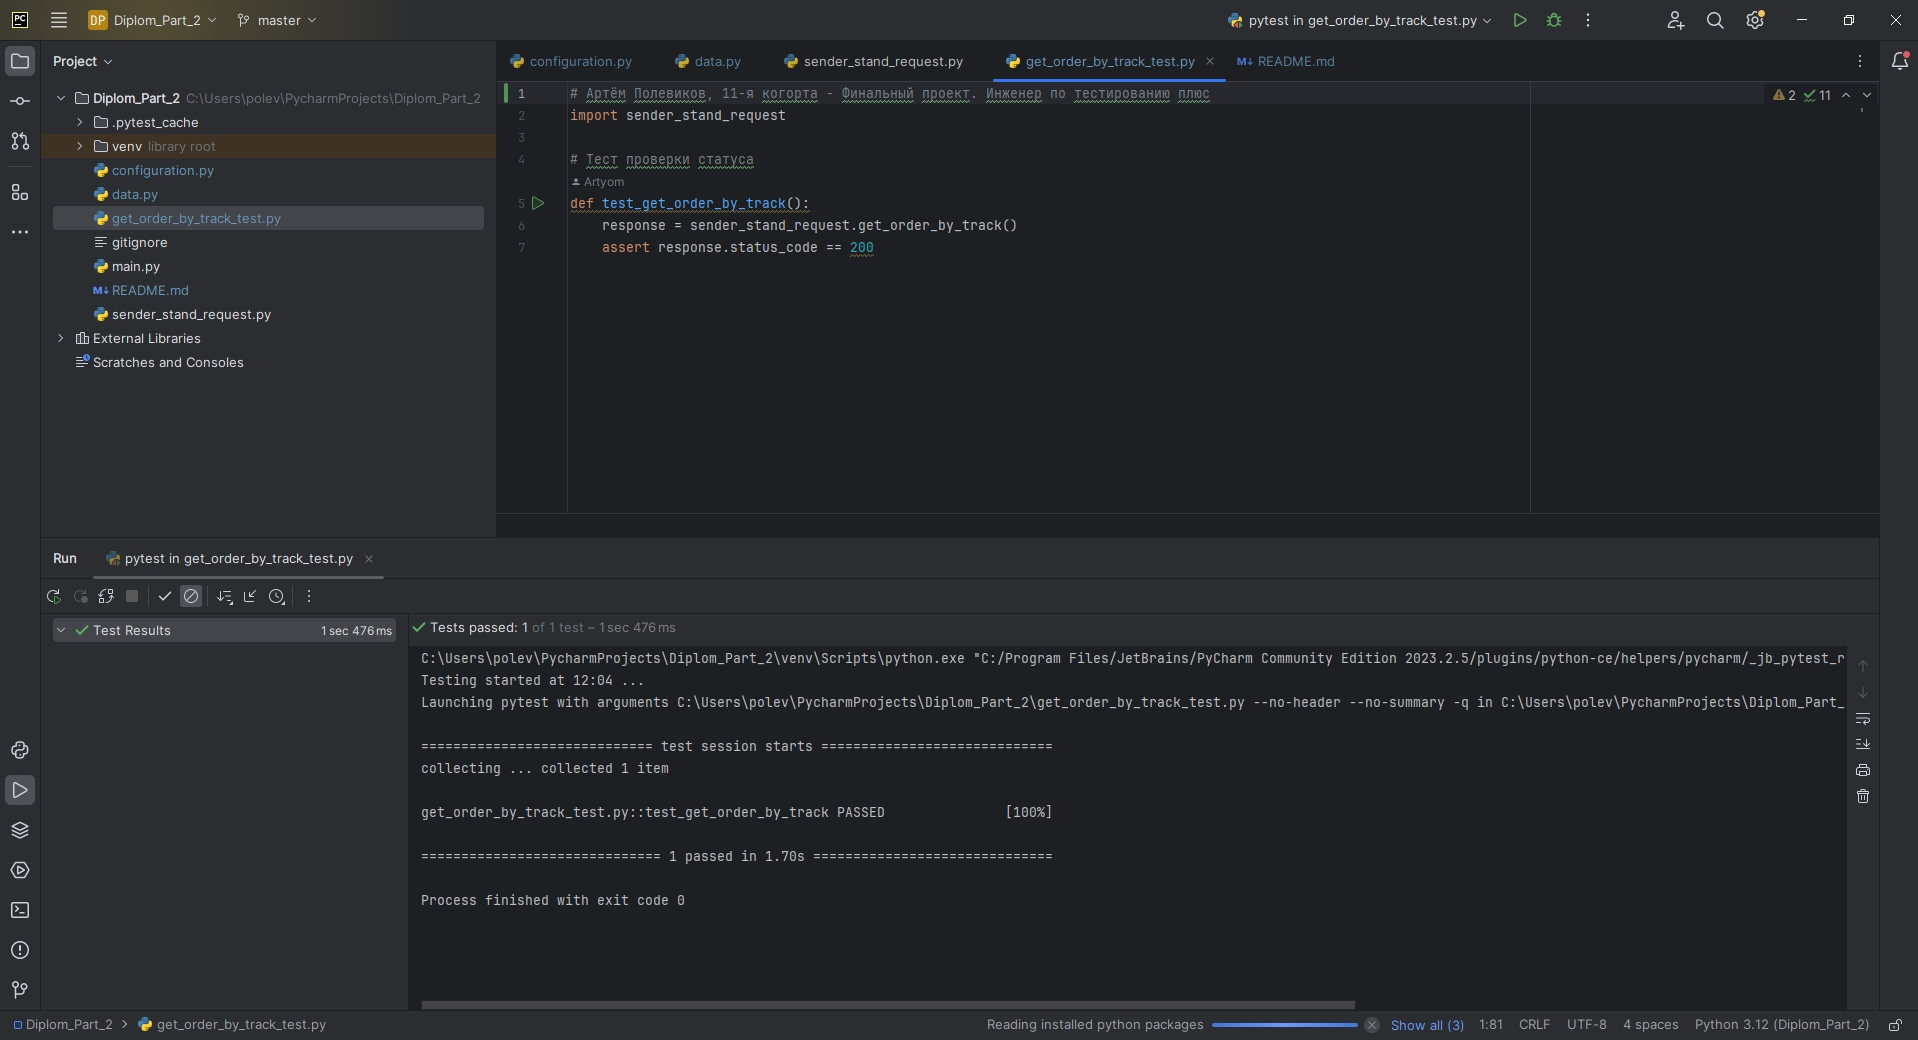
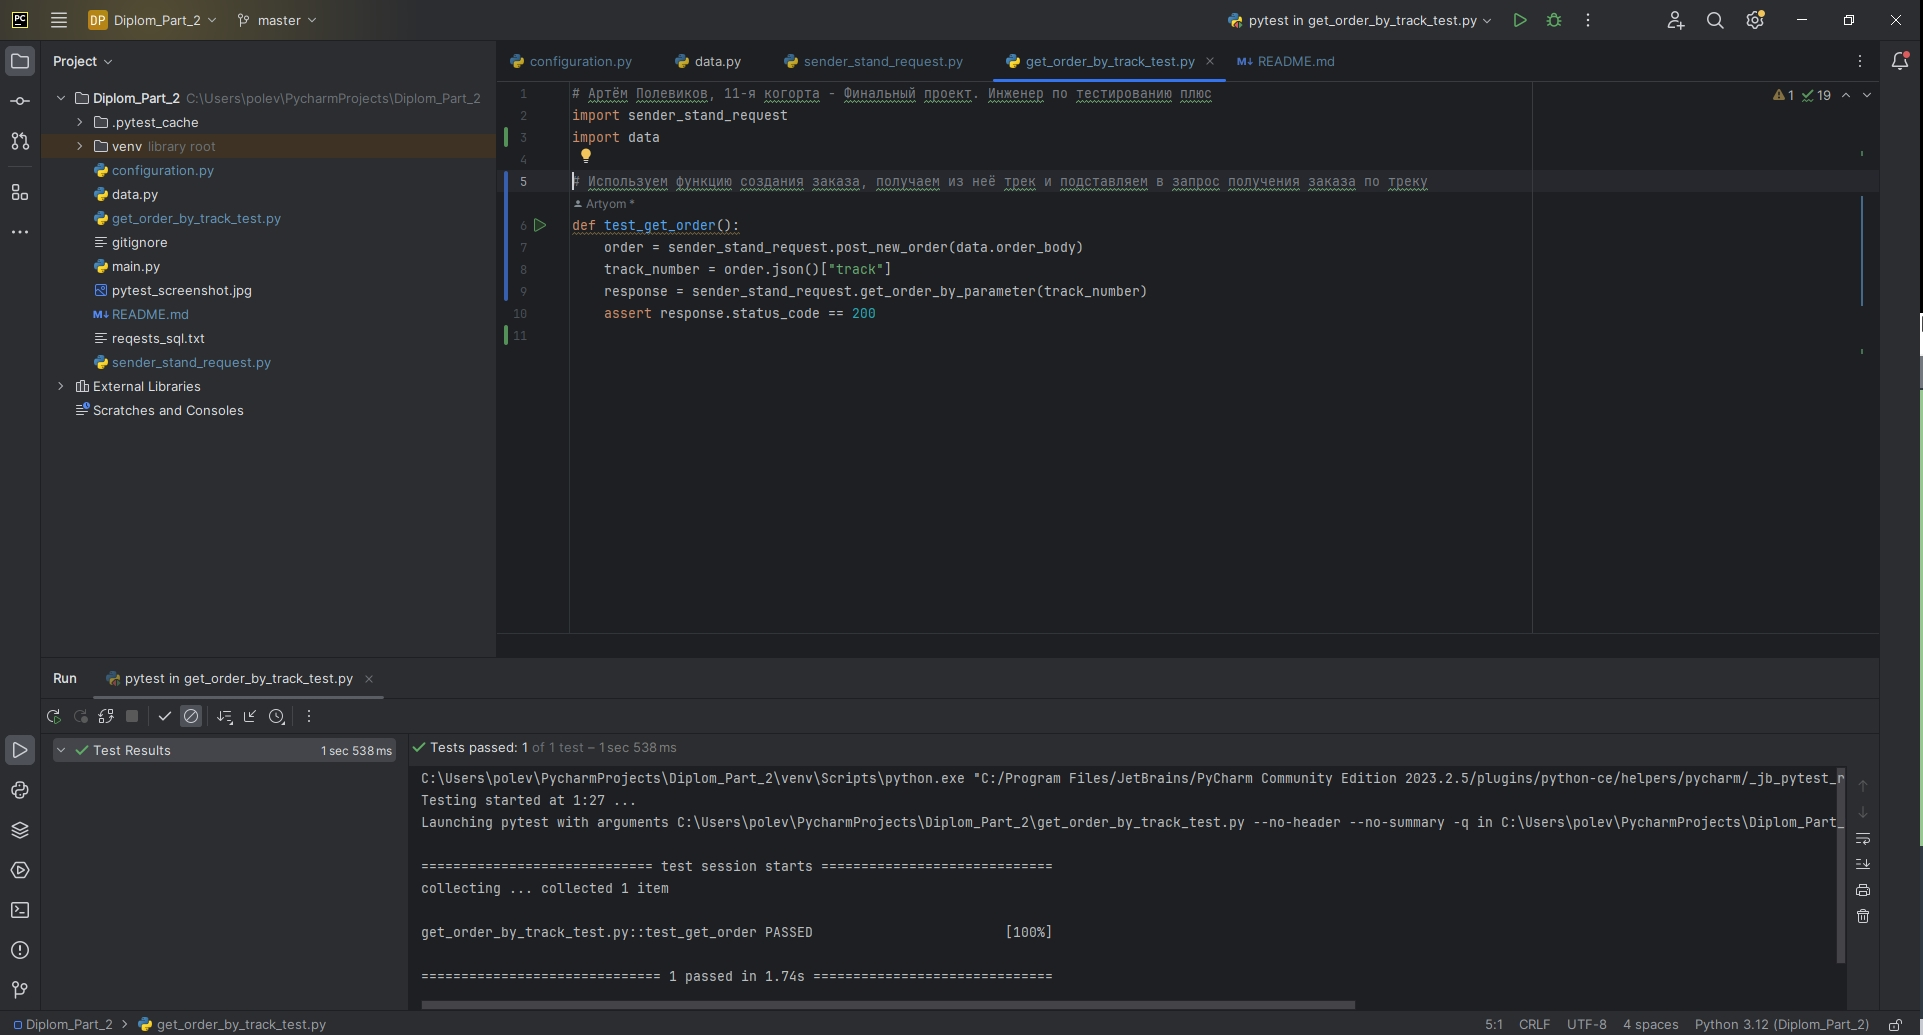
Внесены правки: В файле sender_stand_request убрана отдельная функция, создающая заказ и получающая трек. Функция получения заказа по треку переделана на получение параметра и переименована в get_order_by_parameter. Теперь, автотест создает заказа, возвращает трек и передает в функцию get_order_by_p

diff --git a/sender_stand_request.py b/sender_stand_request.py
@@ -6,17 +6,7 @@ import requests
 def post_new_order(body):
     return requests.post(configuration.URL_SERVICE + configuration.CREATE_ORDER_PATH, json=body)
 
-#2. Получение трек-номера
-def get_order_track():
-    response = post_new_order(data.order_body)
-    return response.json()["track"]
-
-#3. Получение заказа по треку
-def get_order_by_track():
-    track_with_id = str(get_order_track())
+#2. Получение заказа по параметру
+def get_order_by_parameter(track_number):
+    track_with_id = str(track_number)
     return requests.get(configuration.URL_SERVICE + configuration.GET_ORDER_PATH + track_with_id)
-
-#Для ручной проверки функции
-#resopnse = get_order_by_track();
-#print(resopnse.status_code)
-#print(resopnse.text)

diff --git a/get_order_by_track_test.py b/get_order_by_track_test.py
@@ -1,7 +1,10 @@
 # Артём Полевиков, 11-я когорта - Финальный проект. Инженер по тестированию плюс
 import sender_stand_request
+import data
 
-# Тест проверки статуса
-def test_get_order_by_track():
-    response = sender_stand_request.get_order_by_track()
+# Используем функцию создания заказа, получаем из неё трек и подставляем в запрос получения заказа по треку
+def test_get_order():
+    order = sender_stand_request.post_new_order(data.order_body)
+    track_number = order.json()["track"]
+    response = sender_stand_request.get_order_by_parameter(track_number)
     assert response.status_code == 200

diff --git a/configuration.py b/configuration.py
@@ -1,3 +1,3 @@
-URL_SERVICE = "https://8e2667e7-68b9-44e3-8247-ee64b3a70297.serverhub.praktikum-services.ru"
+URL_SERVICE = "https://485aae69-e55b-4439-b7ad-2e3c3242253d.serverhub.praktikum-services.ru"
 CREATE_ORDER_PATH = "/api/v1/orders"
-GET_ORDER_PATH = "/api/v1/orders?t="
+GET_ORDER_PATH = "/api/v1/orders/track?t="

diff --git a/README.md b/README.md
@@ -1,3 +1,3 @@
-# Тест на проверку статуса получения закза по трек-номеру в приложении Яндекс.Самокат с помощью API Яндекс.Прилавок.
+# Тест на проверку статуса получения закза по трек-номеру в приложении Яндекс.Самокат с помощью API Яндекс.Самокат.
 - Для запуска тестов должны быть установлены пакеты pytest и requests
 - Запуск теста выполянется командой pytest
